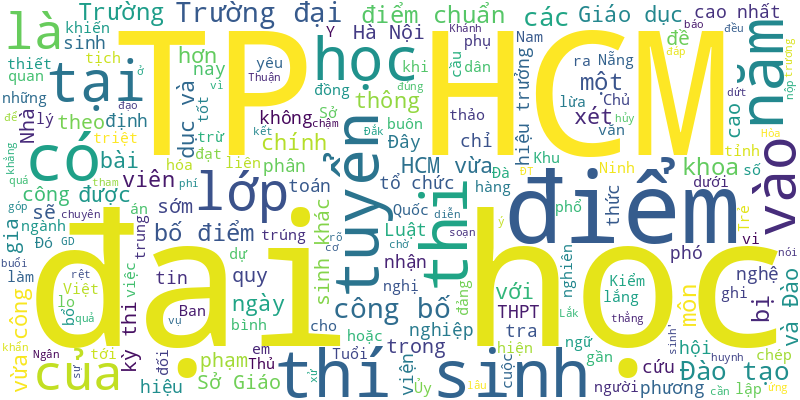
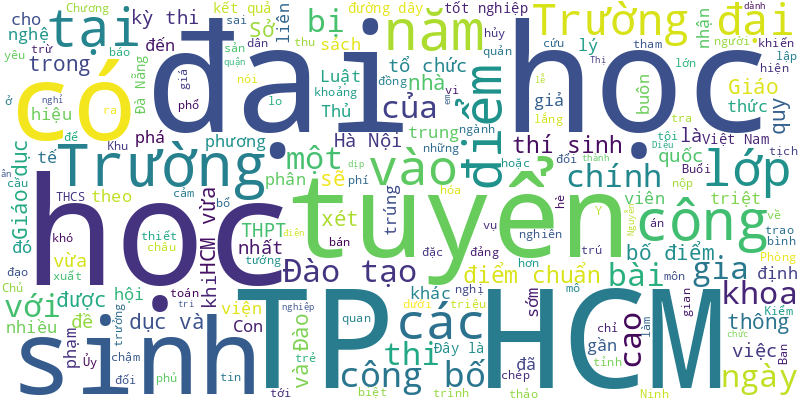
🍀 = 50%

diff --git a/README.md b/README.md
@@ -1,6 +1,14 @@
 # Tuoi Tre RSS 
 
 ## Giáo dục 
+- Thủ tướng Chính phủ vừa có công điện về việc tổ chức kỳ thi tốt nghiệp trung học phổ thông năm 2024 và việc quản lý trẻ em, học sinh trong dịp nghỉ hè.
+- Buổi lễ trưởng thành và tri ân dành cho học sinh lớp 12 Trường THPT Nguyễn Thị Diệu, quận 3, TP.HCM có nhiều điều bất ngờ. Nhất là khi một học sinh đã đặt câu hỏi tại sao chúng ta cảm thấy khó khăn khi nói lời cảm ơn ba mẹ?
+- Con tôi năm nay lên lớp 6, chỉ cư trú cách một trường THCS khoảng 450m, tuyển sinh đầu cấp con có được học trường gần nhà nhất đó không? Nếu có sai sót hồ sơ thì liên hệ ở đâu?
+- Chương trình Khám phá trường học sẽ tiếp tục đến với Trường song ngữ quốc tế Hoàng Gia Royal School.
+- Lãnh đạo Sở Giáo dục và Đào tạo chưa nhận được báo cáo vụ chậm nộp học phí 2 ngày, bị hủy kết quả trúng tuyển lớp 10.
+- Đường dây sản xuất, buôn bán sách giáo khoa giả có quy mô đặc biệt lớn tại Đà Nẵng và TP.HCM vừa được triệt phá. Trong hai năm, đường dây này đã tiêu thụ khoảng 4 triệu cuốn sách giả.
+- Nhiều sinh viên tại các trường đại học Việt Nam đang tận dụng thời gian hè để tham gia các chuyến trao đổi, giao lưu quốc tế từ châu Á đến châu Âu, thu nhận nhiều bài học giá trị.
+- Sáng 22-6, Phòng Giáo dục và Đào tạo TP Thủ Đức, TP.HCM đã công bố kết quả khảo sát vào lớp 6 năm học 2024-2025.
 - 'Đề thi các môn đều có sự phân hóa rõ rệt. Đây là cơ sở cần thiết đáp ứng cho yêu cầu của một kỳ thi tuyển sinh', theo Sở GD-ĐT TP.HCM.
 - Trường đại học Ngân hàng TP.HCM vừa công bố điểm chuẩn 2 phương thức xét tuyển sớm theo đề án tuyển sinh đại học năm 2024 của trường.
 - Trường đại học Luật TP.HCM vừa công bố điểm xét trúng tuyển đối với thí sinh được tuyển thẳng, xét tuyển sớm đại học chính quy năm 2024.
@@ -23,46 +31,38 @@
 - Ủy ban Kiểm tra Tỉnh ủy Thanh Hóa sẽ vào cuộc tiến hành kiểm tra khi có dấu hiệu vi phạm đối với tổ chức đảng, đảng viên liên quan đến công tác tuyển sinh vào Trường phổ thông Dân tộc nội trú THCS Mường Lát.
 - Trường đại học Y khoa Phạm Ngọc Thạch, TP.HCM vừa bổ sung đề án tuyển sinh đại học 2024, với việc mở thêm ngành y học cổ truyền.
 - 55.264/98.464 thí sinh có điểm môn toán thi lớp 10 tại TP.HCM dưới 5 điểm. Như vậy, hơn 56% thí sinh có điểm toán dưới trung bình.
-- Nhận được phản ánh bị lừa đảo của học viên đang theo học đào tạo nhân viên hàng không tại Skyteam, phóng viên Tuổi Trẻ vào cuộc. Nhiều thông tin dần hé lộ.
-- 'Ước mơ từ nhỏ của em là trở thành bác sĩ. Em mong muốn chữa bệnh giúp đời', thủ khoa thi vào lớp 10 TP.HCM năm nay chia sẻ.
-- Trường đại học Sư phạm (Đại học Huế) hơn một năm nay không có hiệu trưởng và hiệu phó, mà chỉ có phó hiệu trưởng phụ trách.
-- Kỳ thi vào lớp 10 năm nay tại TP.HCM ghi nhận một thí sinh có điểm thi cao nhất là 28,75 và ba thí sinh khác được 28,5 điểm.
-- Sở Giáo dục và Đào tạo TP.HCM vừa công bố phổ điểm các môn thi tuyển sinh lớp 10 năm 2024.
-- Trong số hơn 98.000 thí sinh dự thi lớp 10 tại TP.HCM, chỉ có 49 thí sinh đạt điểm 10 môn toán. Năm trước có 121 thí sinh.
-- Hơn 1.700 thí sinh được điểm 10 môn ngoại ngữ. Không có thí sinh nào đạt điểm thi 10 môn ngữ văn.
-- Sáng sớm 19-6, Sở Giáo dục và Đào tạo TP.HCM công bố điểm thi lớp 10 năm 2024. Thí sinh có thể tra cứu tại https://tuoitre.vn/diem-thi.htm
 ![Edu](Edu.png)
 ## Thời Sự 
-- Bộ Chính trị đã thống nhất từ ngày 1-7 sẽ tăng tiền lương cơ sở từ 1,8 triệu đồng lên 2,34 triệu đồng (30%) cho tất cả cán bộ, công chức.
-- Một số tin tức đáng chú ý: Đề xuất thời gian làm việc trong năm học của giáo viên phổ thông là 42 tuần; Đông Nam Bộ còn 7 đợt triều cường; Tích hợp thông tin thẻ bảo hiểm y tế lên VNeID...
-- Hôm nay 22-6, thời tiết Bắc Bộ và Nam Bộ mưa to, chủ yếu vào đêm và sáng sớm, Trung Bộ ngày nắng.
-- Đó là nhận định của Bộ trưởng Bộ Ngoại giao Bùi Thanh Sơn, khi trả lời phỏng vấn sau chuyến thăm của Tổng thống Putin ngày 19 và 20-6 vừa qua.
-- Chủ tịch nước Tô Lâm gửi tới các thế hệ nhà báo những tình cảm thân thiết, lời thăm hỏi ân cần, lời chúc mừng tốt đẹp nhất của Tổng bí thư Nguyễn Phú Trọng nhân kỷ niệm 99 năm Ngày Báo chí cách mạng Việt Nam.
-- Do nhầm lẫn số hiệu hai chuyến bay có số hiệu gần giống nhau nên kiểm soát viên không lưu đã để hai máy bay vi phạm phân cách an toàn.
-- Theo Công ty Thủy điện Ialy, nguyên nhân ban đầu khiến cá chết do mưa lớn làm rửa trôi bùn đất và phù sa vùng bán ngập đổ xuống lòng hồ nơi đặt lồng nuôi cá.
-- Việc Vườn Quốc gia Cát Tiên đạt danh hiệu Danh lục Xanh là sự công nhận nỗ lực của đội ngũ tại đây trong công tác bảo tồn thiên nhiên và bảo tồn đa dạng sinh học.
-- Đường dây cá độ bóng đá dựa trên các giải trong, ngoài nước (kể cả Euro 2024) với trị giá giao dịch, cá cược khoảng 8 triệu USD/tháng.
-- Cơ quan chức năng của TP.HCM sẽ thường xuyên theo dõi, kiểm tra để có phương án tổ chức giao thông tối ưu cho khu vực thi công nút giao An Phú (TP Thủ Đức, TP.HCM).
-- Giải báo chí tỉnh Kiên Giang năm 2024, báo Tuổi Trẻ đoạt giải ba và giải khuyến khích.
-- Ban Thường vụ Tỉnh ủy Lâm Đồng đã điều động, chỉ định ông Trần Trung Hiếu làm bí thư Huyện ủy Đức Trọng.
-- Bộ Lao động - Thương binh và Xã hội đang lấy ý kiến cơ quan liên quan về tăng mức chuẩn trợ cấp xã hội từ 360.000 đồng/tháng lên 500.000 đồng/tháng.
-- Cơ quan chức năng đề nghị lập đoàn thanh tra liên ngành để thanh tra toàn diện dự án điện gió Tân Tấn Nhật - Đăk Glei tại tỉnh Kon Tum vì liên tiếp sai phạm.
-- Ban Chấp hành Trung ương Đảng đồng ý để ông Đinh Tiến Dũng thôi giữ chức vụ ủy viên Bộ Chính trị, ủy viên Ban Chấp hành Trung ương Đảng khóa XIII.
-- Bộ trưởng Bộ Tài nguyên và Môi trường Đặng Quốc Khánh cho hay các luật liên quan bất động sản với nhiều chính sách mới sẽ góp phần giải quyết những tồn đọng, vướng mắc trong phát triển kinh tế, xã hội lâu nay.
-- Đó là chia sẻ của ông Nguyễn Tấn Tuân - chủ tịch UBND tỉnh Khánh Hòa trong buổi thăm Văn phòng đại diện  báo Tuổi Trẻ khu vực Nam Trung Bộ - Tây Nguyên.
-- Dự báo khoảng ngày 23 đến 24-6, trên Biển Đông có khả năng hình thành vùng áp thấp và sau đó mạnh lên thành áp thấp nhiệt đới.
-- Một sản phụ suy đa tạng do vỡ tử cung, hoại tử ruột non khi mang thai ở tuần thứ 32 vừa được các bác sĩ tại ba bệnh viện ở TP.HCM phối hợp cứu sống.
-- Ngày 21-6, ông Đặng Vĩnh Sơn - trưởng Ban Quản lý khu kinh tế tỉnh Bình Định - cho biết đã ban hành quyết định chấm dứt hoạt động đối với dự án khu vui chơi giải trí đầm Thị Nại tại xã Nhơn Hội (TP Quy Nhơn).
-- Sau thời gian điều tra mở rộng, Công an tỉnh An Giang đã khởi tố, bắt tạm giam 3 người liên quan đến vụ đưa hơn nửa triệu USD qua Campuchia.
-- Bộ Y tế vừa tiếp nhận 65.000 lọ thuốc điều trị cho người nhiễm HIV, do Chính phủ Úc viện trợ thông qua hợp tác với Tổ chức Y tế thế giới.
-- Cà Mau vừa có quyết định thành lập khu bảo tồn biển rộng 27.000ha nhằm bảo vệ và bảo tồn nguồn lợi thủy sản, bảo vệ môi trường và các hệ sinh thái gắn với phát triển du lịch sinh thái bền vững.
-- Liên quan đến cá nhân hành nghề tư vấn định giá đất, Bộ Tài nguyên và Môi trường đề xuất quy định rõ các điều kiện của cơ sở đào tạo, bồi dưỡng nghiệp vụ về giá đất.
-- Vụ tai nạn liên hoàn trên quốc lộ 1 đoạn qua đèo Quán Cau (huyện Tuy An, tỉnh Phú Yên) khiến 3 ô tô hư hỏng, gây ùn ứ giao thông nhiều giờ.
-- Hàng chục tấn cá lăng đặc sản sắp thu hoạch của người dân nuôi trên hồ thủy điện Ialy (Kon Tum) bất ngờ chết hàng loạt.
-- Chuyến đi của Trợ lý ngoại trưởng Mỹ Daniel J. Kritenbrink đến Hà Nội hôm nay 21-6, mang theo các cam kết của Mỹ trong quan hệ với Việt Nam.
-- Đại tá Nguyễn Hồng Phong - 45 tuổi, giám đốc Công an tỉnh Hà Tĩnh - được điều động, bổ nhiệm làm giám đốc Công an tỉnh Đồng Nai.
-- Sáng 21-6, Viện kiểm sát nhân dân, Công an huyện Đắk Glong, tỉnh Đắk Nông tổ chức buổi xin lỗi công khai hai vợ chồng 8 năm bị khởi tố, 4 tháng bắt giam oan ức.
-- Trên website của chùa Ba Vàng ngày 21-6 thông báo khóa tu mùa hè (sau khóa 1) của chùa Ba Vàng năm nay sẽ tạm hoãn.
+- Nhiều bà nội trợ lại tiếp tục lo giá cả sẽ còn tăng bởi tình trạng "té nước theo mưa" khi tăng lương cơ sở từ 1,8 triệu đồng lên 2,34 triệu đồng (30%) cho tất cả cán bộ, công chức từ 1-7 tới.
+- Chỉ tốn hơn 3 triệu đồng, khách từ hai đầu đất nước đã có vé máy bay khứ hồi và hai đêm ở khách sạn tại Đà Nẵng. Trong bối cảnh khan hiếm máy bay, các gói combo siêu hời này vừa được tung ra đã thu hút được sự quan tâm của du khách.
+- Dự án cao tốc Khánh Hòa - Buôn Ma Thuột giai đoạn 1 bị ảnh hưởng tiến độ giải ngân vì chậm giải phóng mặt bằng.
+- Thủ tướng Chính phủ vừa có công điện về việc tổ chức kỳ thi tốt nghiệp trung học phổ thông năm 2024 và việc quản lý trẻ em, học sinh trong dịp nghỉ hè.
+- Đến sáng nay 23-6, các lực lượng chức năng và chính quyền địa phương đã tìm thấy thi thể ba nạn nhân bị đuối nước khi tắm biển tại xã Hoằng Phụ, huyện Hoằng Hóa (Thanh Hóa).
+- Một số tin tức đáng chú ý: Côn Đảo giảm nhựa sử dụng một lần; Yeah1 sẽ bán vốn tại hàng loạt công ty con...
+- Dự báo hôm nay 23-6, thời tiết Tây Nguyên và Nam Bộ mưa nhiều nơi, Bắc Bộ cũng mưa rào và dông.
+- Bộ Tài chính đề xuất Ban Chỉ đạo trung ương quyết định mức chi cụ thể khi mua tin phòng chống tham nhũng với tối đa 50 triệu đồng một tin.
+- Thủ tướng Phạm Minh Chính sẽ có bài phát biểu đặc biệt và chủ trì một số phiên thảo luận tại WEF Đại Liên - một trong những sự kiện quan trọng nhất châu Á - Thái Bình Dương.
+- Bộ Giao thông vận tải công bố sân bay Liên Khương trở thành cảng hàng không quốc tế, tiếp nhận các chuyến bay quốc tế từ ngày 22-6-2024.
+- Thẻ căn cước được cấp mới từ ngày 1-7 có hình chữ nhật, chiều rộng 53,98mm, chiều dài 85,6mm, độ dày 0,76mm, bốn góc được cắt tròn với bán kính 3,18mm, được sản xuất bằng chất liệu nhựa, có nhiều trường thông tin được thay đổi.
+- Chiều 22-6, Thủ tướng Phạm Minh Chính cùng đoàn công tác đã đi kiểm tra, động viên công nhân thi công dự án đường dây 500kV mạch 3 Quảng Trạch - Phố Nối qua địa bàn tỉnh Thanh Hóa.
+- Quyền Bí thư Tỉnh ủy Lâm Đồng Nguyễn Thái Học đề nghị doanh nghiệp hãy phản ánh cán bộ nào né tránh, không chịu làm, tỉnh sẽ xử lý.
+- Đến ngày 22-6, đã có 34 căn nhà bị ảnh hưởng do việc thi công nạo vét sông Bạc Liêu, phạm vi ảnh hưởng kéo dài tới 800m.
+- Tại Hà Nội, Trợ lý Ngoại trưởng Mỹ Daniel Kritenbrink khẳng định sự tôn trọng với chính sách đối ngoại của Việt Nam, bất kể quan điểm của Mỹ với nước khác.
+- Hàng trăm con cá koi đến từ nhiều trại cá, hồ và câu lạc bộ cá koi nổi tiếng trong và ngoài nước đã cùng tham gia cuộc thi tại Triển lãm cá koi toàn quốc năm 2024 ở TP.HCM.
+- Một số ô tô va chạm trên đường dẫn lên cao tốc TP.HCM - Long Thành - Dầu Giây khiến cao tốc và quốc lộ 51 (đoạn qua huyện Long Thành, Đồng Nai) ùn tắc kéo dài.
+- Theo đại diện Phòng CSGT TP.HCM, mặc dù đã quyết liệt xử lý nghiêm tình trạng xe khách dừng, đỗ, đón, trả khách không đúng quy định. Tuy nhiên các lái xe vì lợi nhuận bất chấp, phớt lờ quy định.
+- Những ngày gần đây, nhiều người dân hiếu kỳ tìm tới cánh đồng tại xã Bar Măih, huyện Chư Sê (Gia Lai) để chứng kiến hiện tượng đất ruộng 'tự bốc cháy'.
+- Công an xã Phổ Cường, thị xã Đức Phổ, Quảng Ngãi khi tiếp nhận thông tin du khách Nga đánh rơi ba lô có nhiều tư trang đã tích cực tìm kiếm. Du khách nhận lại rất vui mừng và cảm ơn Công an Việt Nam.
+- Chiếc xe khách lạng lách, chặn đầu ô tô tải giữa đường cao tốc. Ba người đàn ông sau đó đi xuống từ xe khách, leo lên cacbin rồi hành hung tài xế xe tải.
+- Bộ Lao động - Thương binh và Xã hội đề xuất tăng chuẩn trợ cấp ưu đãi người có công từ 2,055 triệu đồng lên 2,789 triệu đồng, tức tăng 35,7%.
+- Ông Nguyễn Phước Lộc, phó bí thư Thành ủy TP.HCM, được chỉ định giữ chức bí thư Đảng đoàn MTTQ Việt Nam TP.HCM nhiệm kỳ 2019 - 2024.
+- Phát hiện các hộ kinh doanh mua bán phân bón, thuốc bảo vệ thực vật kém chất lượng, cơ quan chức năng địa phương sẽ xử lý mạnh tay, không có ngoại lệ.
+- Tư duy 'thành phố trong làng, làng trong thành phố' sẽ tiếp tục nghiên cứu và cụ thể trong quy hoạch.
+- Thủ tướng Phạm Minh Chính sẽ đến Đại Liên (Trung Quốc) từ ngày 24 đến ngày 27-6 để tham dự Hội nghị thường niên các nhà tiên phong lần thứ 15 của Diễn đàn Kinh tế thế giới (WEF).
+- Công an tỉnh Kiên Giang đã bắt thêm một giám đốc công ty liên quan đến vụ án 'Vi phạm quy định về đầu tư công trình xây dựng gây hậu quả nghiêm trọng và thiếu trách nhiệm gây hậu quả nghiêm trọng', xảy ra tại Vườn quốc gia U Minh Thượng.
+- Bà Trần Kim Yến - chủ tịch Ủy ban Mặt trận Tổ quốc Việt Nam TP.HCM - được điều động, phân công làm chủ nhiệm Ủy ban Kiểm tra Thành ủy TP.HCM.
+- Lãnh đạo Sở Giáo dục và Đào tạo chưa nhận được báo cáo vụ chậm nộp học phí 2 ngày, bị hủy kết quả trúng tuyển lớp 10.
+- Nhà đầu tư trạm dừng nghỉ cao tốc Phan Thiết - Dầu Giây nộp ngân sách nhà nước 260 tỉ đồng để đầu tư, khai thác trạm dừng nghỉ trong 25 năm.
 ![New](News.png)
 ## Nhịp sống số 
 - Vừa qua, Motorola Solutions đã khai trương trung tâm R&amp;D tại TP.HCM, với mục tiêu thúc đẩy nghiên cứu và phát triển phần mềm, phân tích dữ liệu và công nghệ trí tuệ nhân tạo (AI).
